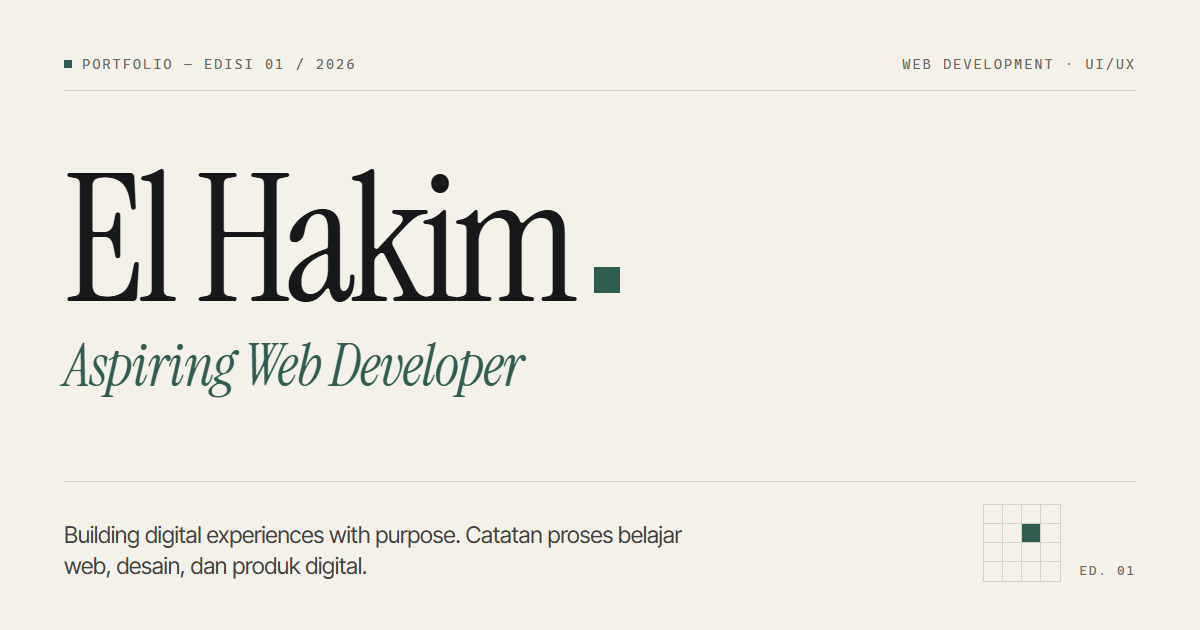
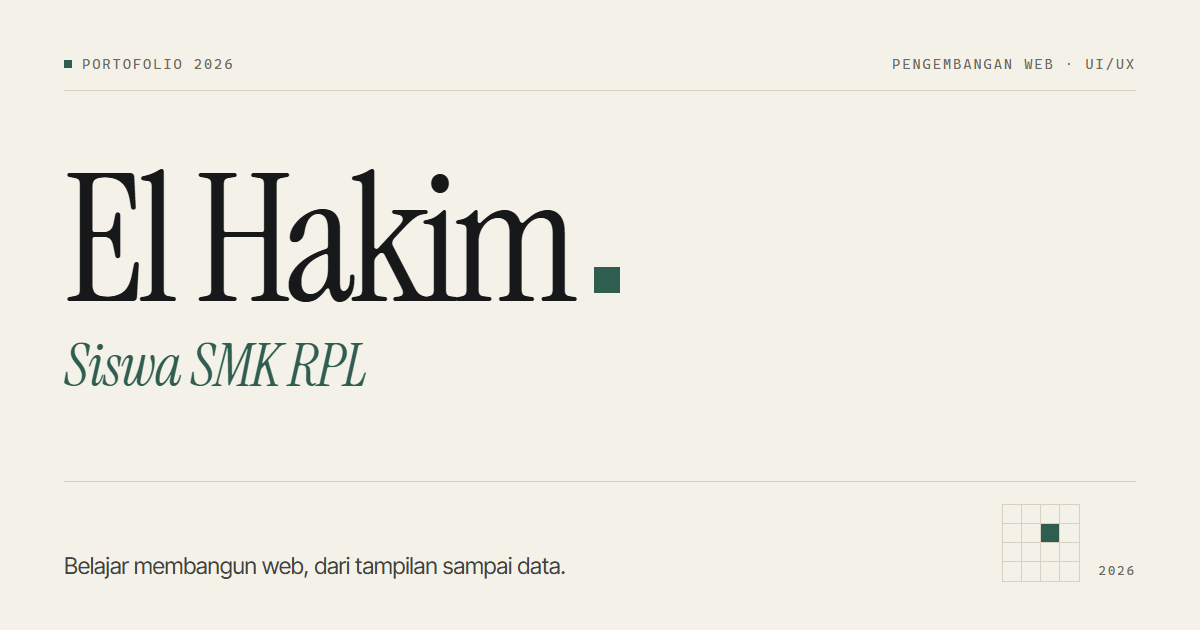
Sederhanakan teks dan hapus penanda yang terasa template
Ganti label Inggris dengan istilah Indonesia, hapus nomor dekoratif dan
"Edisi 01", serta tulis ulang hero dan kartu OG agar terdengar seperti
deskripsi diri sendiri, bukan slogan.

diff --git a/src/data/profile.ts b/src/data/profile.ts
@@ -7,9 +7,7 @@ export interface ContactLink {
 export interface Profile {
   name: string;
   role: string;
-  headline: string;
   intro: string;
-  edition: string;
   photo: {
     src: string;
     srcset: string;
@@ -20,18 +18,15 @@ export interface Profile {
   about: {
     lead: string;
     paragraphs: string[];
-    principles: { title: string; body: string }[];
   };
   contacts: ContactLink[];
 }
 
 export const profile: Profile = {
   name: "El Hakim",
-  role: "Aspiring Web Developer",
-  headline: "Building digital experiences with purpose.",
+  role: "Siswa SMK RPL",
   intro:
-    "Saya sedang mengembangkan kemampuan dalam web development, UI/UX, dan membangun produk digital yang bermanfaat. Saya senang mempelajari cara kerja sebuah produk, memecahkan masalah, dan mengubah ide menjadi pengalaman digital yang fungsional.",
-  edition: "Portfolio — Edisi 01 / 2026",
+    "Saya siswa SMK jurusan RPL. Saya belajar membangun web dari tampilan sampai database lewat proyek sekolah, lalu menuliskan proses dan hasilnya di sini.",
   photo: {
     src: "/images/profile/el-hakim-720.webp",
     srcset:
@@ -43,22 +38,8 @@ export const profile: Profile = {
   about: {
     lead: "Saya siswa SMK jurusan RPL yang sedang belajar membangun web dari sisi tampilan sampai data.",
     paragraphs: [
-      "Ketertarikan saya ada pada titik ketika sebuah ide harus diterjemahkan menjadi alur, layout, lalu kode yang benar-benar bisa dipakai. Saya senang membongkar cara kerja sebuah produk: apa yang dilihat pengguna, bagaimana data mengalir, dan bagian mana yang membuat pengalaman terasa membingungkan.",
-      "Saat ini saya belajar sambil mengerjakan proyek sekolah, mulai dari toko elektronik sampai aplikasi pengelolaan data. Setiap proyek saya jadikan kesempatan untuk menguji cara berpikir, bukan hanya menambah daftar teknologi.",
-    ],
-    principles: [
-      {
-        title: "Mulai dari masalah",
-        body: "Tampilan hanya berguna kalau menjawab kebutuhan nyata. Saya berusaha memahami alurnya dulu sebelum memilih komponen.",
-      },
-      {
-        title: "Sederhana, lalu diuji",
-        body: "Versi pertama dibuat cukup jelas untuk dipakai, kemudian diperbaiki berdasarkan hasil pengujian di layar nyata.",
-      },
-      {
-        title: "Belajar sambil membangun",
-        body: "Saya mencatat keputusan dan kesalahan selama mengerjakan proyek agar pelajaran berikutnya tidak hilang.",
-      },
+      "Saya suka bagian ketika sebuah ide berubah menjadi alur, layout, lalu kode yang benar-benar bisa dipakai. Saya senang membongkar cara kerja sebuah produk: apa yang dilihat pengguna, bagaimana data mengalir, dan bagian mana yang membuat pengalaman terasa membingungkan.",
+      "Saat ini saya belajar sambil mengerjakan proyek sekolah, mulai dari toko elektronik sampai aplikasi pengelolaan data. Setiap proyek saya pakai untuk melatih cara berpikir dan menulis kode yang rapi.",
     ],
   },
   contacts: [

diff --git a/src/components/MobileNav.tsx b/src/components/MobileNav.tsx
@@ -142,9 +142,9 @@ export default function MobileNav({ items }: { items: NavItem[] }) {
             </nav>
 
             <div className="mobile-nav__foot">
-              <p className="label">Portfolio — Edisi 01 / 2026</p>
+              <p className="label">Portofolio 2026</p>
               <a href="/#contact" className="label" onClick={() => close(false)}>
-                Mulai percakapan
+                Hubungi saya
               </a>
             </div>
           </motion.div>

diff --git a/src/content/projects/usk-tech-premium.md b/src/content/projects/usk-tech-premium.md
@@ -2,7 +2,7 @@
 title: "USK Tech Premium"
 order: 1
 category: "E-commerce · Elektronik"
-summary: "Toko elektronik full-stack dengan katalog, akun, keranjang, checkout transfer bank, dan panel admin — dibangun dengan Next.js, TypeScript, Drizzle, dan Neon PostgreSQL."
+summary: "Toko elektronik full-stack dengan katalog, akun, keranjang, checkout transfer bank, dan panel admin, dibangun dengan Next.js, TypeScript, Drizzle, dan Neon PostgreSQL."
 status: "complete"
 statusLabel: "Selesai · demo"
 statusNote: "Proyek sekolah SMK RPL. Situs demo tayang dengan data contoh; bukan toko yang menerima transaksi nyata."
@@ -19,7 +19,7 @@ technologies:
   - Zod
 preview:
   kind: "commerce"
-  caption: "Tangkapan layar beranda dengan hero produk unggulan — data contoh."
+  caption: "Tangkapan layar beranda dengan hero produk unggulan dan data contoh."
   image:
     src: "/images/projects/usk/beranda-cover-1440.webp"
     srcSmall: "/images/projects/usk/beranda-cover-800.webp"
@@ -58,7 +58,7 @@ gallery:
 
 ## Ringkasan
 
-USK Tech Premium adalah toko elektronik yang saya bangun dari nol sebagai proyek sekolah SMK jurusan RPL. Bukan hanya mockup: katalog, akun, keranjang, checkout, pesanan, dan panel admin berjalan di atas satu database. Situs ini tayang sebagai demo dengan data contoh, bukan toko yang menerima uang sungguhan.
+USK Tech Premium adalah toko elektronik yang saya bangun dari nol sebagai proyek sekolah SMK jurusan RPL. Katalog, akun, keranjang, checkout, pesanan, dan panel admin berjalan di atas satu database. Situs ini tayang sebagai demo dengan data contoh, bukan toko yang menerima uang sungguhan.
 
 ## Masalah dan tujuan
 
@@ -66,7 +66,7 @@ Menjual elektronik berarti menjelaskan spesifikasi, stok, dan harga tanpa membua
 
 ## Peran saya
 
-Saya mengerjakan alurnya dari awal sampai tayang: arah visual, komponen antarmuka, skema database, autentikasi, validasi di server, panel admin, metadata SEO, dan deployment. Setiap fase diuji langsung di browser — register, menambah ke keranjang, checkout, sampai panel admin — sebelum dianggap selesai.
+Saya mengerjakan alurnya dari awal sampai tayang: arah visual, komponen antarmuka, skema database, autentikasi, validasi di server, panel admin, metadata SEO, dan deployment. Setiap fase saya uji langsung di browser, dari register, menambah ke keranjang, checkout, sampai panel admin, sebelum dianggap selesai.
 
 ## Fitur yang berjalan
 
@@ -77,20 +77,20 @@ Saya mengerjakan alurnya dari awal sampai tayang: arah visual, komponen antarmuk
 - **Checkout** transfer bank manual: data penerima, alamat, validasi, pembuatan pesanan, dan pengurangan stok dalam satu transaksi.
 - **Riwayat pesanan** beserta detail, dengan pemeriksaan kepemilikan agar pesanan orang lain tidak bisa dibuka.
 - **Panel admin** untuk ringkasan, CRUD produk dan kategori, edit stok, serta pencarian dan perubahan status pesanan.
-- **Keamanan** berupa pembatasan percobaan login, register, dan checkout, serta pemeriksaan role di server — bukan hanya di tampilan.
+- **Keamanan** berupa pembatasan percobaan login, register, dan checkout, serta pemeriksaan role di server, bukan hanya di tampilan.
 - **Tema terang dan gelap** yang bisa diganti dari navigasi, plus tata letak responsif.
 
 ## Teknologi yang dipakai
 
-- **Next.js (App Router) + React + TypeScript** — routing, server components, server actions, dan tipe data dari database sampai komponen.
-- **Tailwind CSS** — token warna, tipografi, dan tata letak; aksen lime dipakai hemat di atas dasar hitam, putih, dan abu-abu.
-- **Auth.js (NextAuth)** — login kredensial dengan sesi JWT HttpOnly, ditambah kolom `role` untuk membedakan pelanggan dan admin.
-- **Drizzle ORM + drizzle-kit** — skema dan migrasi database ditulis sebagai kode, bukan tabel yang dibuat manual di console.
-- **Neon PostgreSQL + driver `pg`** — database produksi; koneksi pooled untuk aplikasi dan unpooled untuk migrasi. Checkout memakai transaksi dan row lock agar stok tidak terjual dua kali.
-- **Zod** — validasi input di server untuk checkout, produk, kategori, dan autentikasi.
-- **next/image** — gambar produk lokal dioptimalkan; tipografi memakai Sora dan Geist.
-- **Vercel** — deployment produksi dengan auto-deploy dari branch `master`; kredensial database dan auth hanya ada di environment variables.
-- **SEO** — metadata per halaman, canonical, Open Graph/Twitter, sitemap dinamis, robots, JSON-LD produk, dan `noindex` untuk halaman pribadi.
+- **Next.js (App Router) + React + TypeScript**: routing, server components, server actions, dan tipe data dari database sampai komponen.
+- **Tailwind CSS**: token warna, tipografi, dan tata letak; aksen lime dipakai hemat di atas dasar hitam, putih, dan abu-abu.
+- **Auth.js (NextAuth)**: login kredensial dengan sesi JWT HttpOnly, ditambah kolom `role` untuk membedakan pelanggan dan admin.
+- **Drizzle ORM + drizzle-kit**: skema dan migrasi database ditulis sebagai kode, bukan tabel yang dibuat manual di console.
+- **Neon PostgreSQL + driver `pg`**: database produksi; koneksi pooled untuk aplikasi dan unpooled untuk migrasi. Checkout memakai transaksi dan row lock agar stok tidak terjual dua kali.
+- **Zod**: validasi input di server untuk checkout, produk, kategori, dan autentikasi.
+- **next/image**: gambar produk lokal dioptimalkan; tipografi memakai Sora dan Geist.
+- **Vercel**: deployment produksi dengan auto-deploy dari branch `master`; kredensial database dan auth hanya ada di environment variables.
+- **SEO**: metadata per halaman, canonical, Open Graph/Twitter, sitemap dinamis, robots, JSON-LD produk, dan `noindex` untuk halaman pribadi.
 
 ## Arsitektur dan alur data
 
@@ -120,4 +120,4 @@ Alur utama sudah selesai dan situs tayang di tautan demo. Kode sumber tersedia p
 
 - Otorisasi harus diperiksa di server; menyembunyikan tombol di tampilan bukan keamanan.
 - Transaksi database membuat aturan stok bisa dipercaya saat banyak permintaan datang.
-- Data contoh yang konsisten membuat demo terasa nyata tanpa harus mengarang pencapaian.
+- Data contoh yang konsisten membuat demo bisa dipakai tanpa menampilkan data asli.

diff --git a/src/content/projects/data-siswa.md b/src/content/projects/data-siswa.md
@@ -2,7 +2,7 @@
 title: "Data Siswa"
 order: 2
 category: "Manajemen data"
-summary: "Aplikasi CRUD data siswa dengan pencarian, formulir, dan tabel responsif — dibangun dengan Next.js, TypeScript, Tailwind CSS, dan MySQL."
+summary: "Aplikasi CRUD data siswa dengan pencarian, formulir, dan tabel responsif, dibangun dengan Next.js, TypeScript, Tailwind CSS, dan MySQL."
 status: "complete"
 statusLabel: "Selesai · demo"
 statusNote: "Demo tanpa login yang terhubung ke MySQL. Siapa pun bisa mengubah data, jadi jangan gunakan data pribadi sungguhan."
@@ -17,7 +17,7 @@ technologies:
   - mysql2
 preview:
   kind: "records"
-  caption: "Ilustrasi antarmuka daftar — bukan tangkapan layar, agar data siswa tidak ditampilkan."
+  caption: "Ilustrasi antarmuka daftar, bukan tangkapan layar, agar data siswa tidak ditampilkan."
 links:
   demo: "https://data-siswa-app.vercel.app"
   source: "https://github.com/ELHAKIM-2010/data-siswa-app"
@@ -25,11 +25,11 @@ links:
 
 ## Ringkasan
 
-Data Siswa adalah aplikasi administrasi untuk mencatat, mencari, memperbarui, dan menghapus data siswa. Berbeda dari mockup, versi ini benar-benar berjalan: data disimpan di MySQL dan setiap perubahan langsung tersimpan. Aplikasi dibuat sebagai proyek sekolah dan tersedia sebagai demo online.
+Data Siswa adalah aplikasi administrasi untuk mencatat, mencari, memperbarui, dan menghapus data siswa. Aplikasi ini benar-benar berjalan: data disimpan di MySQL dan setiap perubahan langsung tersimpan. Aplikasi dibuat sebagai proyek sekolah dan tersedia sebagai demo online.
 
 ## Masalah dan tujuan
 
-Pencatatan yang tersebar di banyak berkas membuat pencarian dan pembaruan rawan duplikasi. Tujuannya: satu sumber data, pencarian cepat, formulir yang jelas, dan konfirmasi sebelum menghapus. Aplikasi diarahkan untuk memudahkan pekerjaan pengelola data, bukan menambah langkah baru.
+Pencatatan yang tersebar di banyak berkas membuat pencarian dan pembaruan rawan duplikasi. Tujuannya: satu sumber data, pencarian cepat, formulir yang jelas, dan konfirmasi sebelum menghapus. Aplikasi ini dibuat untuk memudahkan pekerjaan pengelola data.
 
 ## Fitur yang berjalan
 
@@ -46,12 +46,12 @@ Pencatatan yang tersebar di banyak berkas membuat pencarian dan pembaruan rawan 
 
 ## Teknologi yang dipakai
 
-- **Next.js 16 (App Router) + React 19 + TypeScript** — halaman utama sebagai client component, dengan tipe data siswa dari formulir sampai API.
-- **Tailwind CSS 4** — tata letak, tabel, formulir, dan tampilan kartu di ponsel.
-- **Route Handlers Next.js** — endpoint `/api/siswa` dan `/api/siswa/[id]` untuk membaca dan mengubah data.
-- **MySQL di Aiven + `mysql2`** — database produksi dengan connection pool dan query berparameter.
-- **Vercel** — deployment demo; kredensial database disimpan sebagai environment variables.
-- **SQL langsung tanpa ORM** — query `SELECT`, `INSERT`, `UPDATE`, dan `DELETE` ditulis eksplisit agar alurnya mudah dipelajari.
+- **Next.js 16 (App Router) + React 19 + TypeScript**: halaman utama sebagai client component, dengan tipe data siswa dari formulir sampai API.
+- **Tailwind CSS 4**: tata letak, tabel, formulir, dan tampilan kartu di ponsel.
+- **Route Handlers Next.js**: endpoint `/api/siswa` dan `/api/siswa/[id]` untuk membaca dan mengubah data.
+- **MySQL di Aiven + `mysql2`**: database produksi dengan connection pool dan query berparameter.
+- **Vercel**: deployment demo. Kredensial database disimpan sebagai environment variables.
+- **SQL langsung tanpa ORM**: query `SELECT`, `INSERT`, `UPDATE`, dan `DELETE` ditulis eksplisit agar alurnya mudah dipelajari.
 
 ## Arsitektur dan alur data
 
@@ -61,7 +61,7 @@ Setiap operasi memakai query berparameter, bukan menyusun SQL dari input penggun
 
 ## Keamanan dan batasan
 
-Aplikasi ini belum memiliki autentikasi. Artinya siapa pun yang membuka tautan demo dapat melihat, menambah, mengubah, dan menghapus data. API juga terbuka tanpa login. Karena itu demo ini hanya cocok untuk latihan dan data contoh — jangan memasukkan data pribadi siswa sungguhan.
+Aplikasi ini belum memiliki autentikasi. Artinya siapa pun yang membuka tautan demo dapat melihat, menambah, mengubah, dan menghapus data. API juga terbuka tanpa login. Karena itu demo ini hanya cocok untuk latihan dan data contoh. Jangan memasukkan data pribadi siswa sungguhan.
 
 Di sisi server sudah ada validasi field wajib, pemeriksaan ID, query berparameter, dan penanganan NIS duplikat. Semua itu mencegah input kosong dan kesalahan query, tetapi tidak menggantikan autentikasi dan pembatasan akses. Daftar juga dimuat sekaligus tanpa paginasi, sehingga cocok untuk jumlah data kecil.
 
@@ -79,6 +79,6 @@ Aplikasi sudah tayang di tautan demo dan kode sumbernya tersedia publik. Proyek 
 
 ## Yang saya pelajari
 
-- Validasi harus dilakukan di server, bukan hanya lewat atribut formulir.
+- Validasi formulir harus diulang di server, karena atribut HTML saja bisa dilewati.
 - Query berparameter dan connection pool membuat akses database lebih aman dan rapi.
 - Aplikasi CRUD tanpa autentikasi bukan aplikasi administrasi yang siap dipakai.
